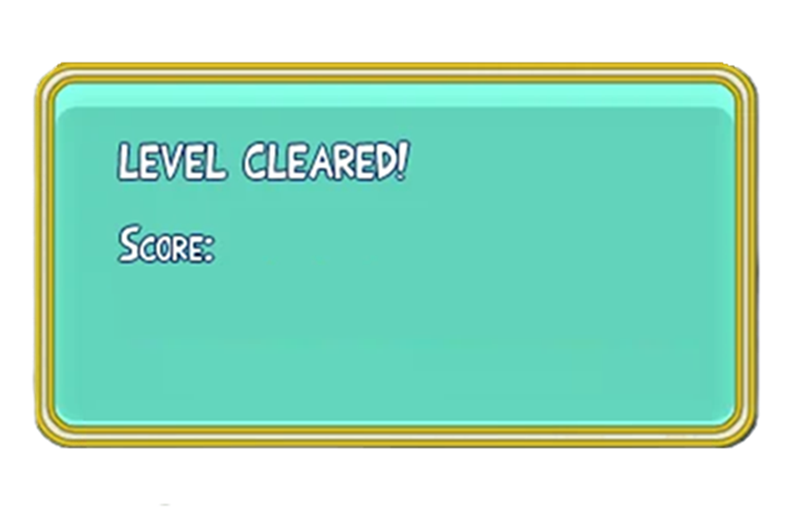
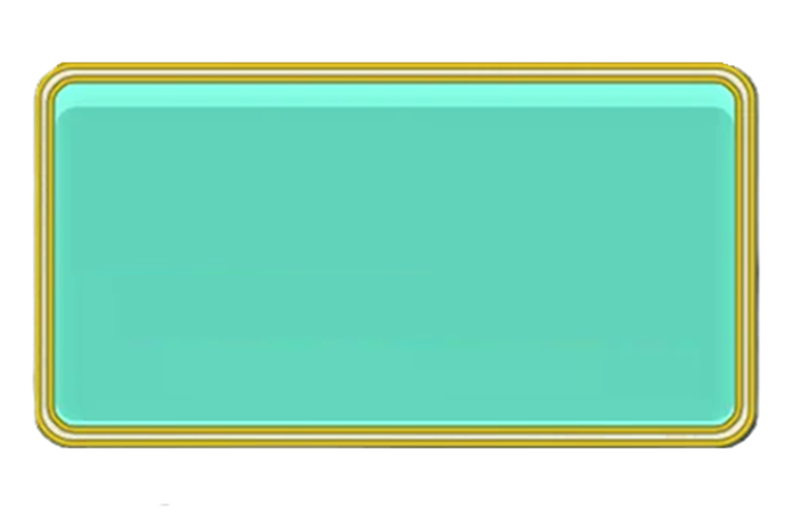
feat yes ScoreBoard

Changed region(s): [[0.125, 0.25, 0.5312, 0.375], [0.125, 0.4375, 0.2812, 0.5312]]

diff --git a/src/AppUtil.cpp b/src/AppUtil.cpp
@@ -31,22 +31,34 @@ void App::PhaseManager() {
         case LEVEL_1: {
             SetUpGame();
 
-            m_ScoreBoard = std::make_shared<ScoreBoard>(RESOURCE_DIR"/GUI/ScoreBoard.png");
-            m_ScoreBoard->SetPosition({0.f, 50.f});
-            m_ScoreBoard->SetZIndex(60);
-            m_Root.AddChild(m_ScoreBoard);
-            m_Menu = std::make_shared<Button>(RESOURCE_DIR"/BUTTON_MENU.png");
-            m_Menu->SetPosition({-200.0f, -125.0f});
-            m_Menu->SetZIndex(70);
-            m_Root.AddChild(m_Menu);
-            m_Restart2 = std::make_shared<Button>(RESOURCE_DIR"/BUTTON_RESTART.png");
-            m_Restart2->SetPosition({0.0f, -125.0f});
-            m_Restart2->SetZIndex(70);
-            m_Root.AddChild(m_Restart2);
-            m_Next = std::make_shared<Button>(RESOURCE_DIR"/BUTTON_NEXT.png");
-            m_Next->SetPosition({200.0f, -125.0f});
-            m_Next->SetZIndex(70);
-            m_Root.AddChild(m_Next);
+            auto scoreBoard = std::make_shared<ScoreBoard>(RESOURCE_DIR"/GUI/ScoreBoard.png");
+            scoreBoard->SetPosition({0.f, 50.f});
+            scoreBoard->SetZIndex(59);
+            m_PauseMenu.push_back(scoreBoard);
+            const auto text_LevelClear = std::make_shared<ScoreBoard>(RESOURCE_DIR"/GUI/LevelCleared.png");
+            text_LevelClear->SetPosition({-130.f, 140.f});
+            text_LevelClear->SetScale(0.5f);
+            text_LevelClear->SetZIndex(60);
+            m_PauseMenu.push_back(text_LevelClear);
+            const auto text_Score = std::make_shared<ScoreBoard>(RESOURCE_DIR"/GUI/Score.png");
+            text_Score->SetPosition({-250.f, 70.f});
+            text_Score->SetScale(0.5f);
+            text_Score->SetZIndex(60);
+            m_PauseMenu.push_back(text_Score);
+            auto btn_Menu = std::make_shared<Button>(RESOURCE_DIR"/BUTTON_MENU.png");
+            btn_Menu->SetPosition({-200.0f, -125.0f});
+            btn_Menu->SetZIndex(70);
+            m_PauseMenu.push_back(btn_Menu);
+            auto btn_Restart = std::make_shared<Button>(RESOURCE_DIR"/BUTTON_RESTART.png");
+            btn_Restart->SetPosition({0.0f, -125.0f});
+            btn_Restart->SetZIndex(70);
+            m_PauseMenu.push_back(btn_Restart);
+            auto btn_Next = std::make_shared<Button>(RESOURCE_DIR"/BUTTON_NEXT.png");
+            btn_Next->SetPosition({200.0f, -125.0f});
+            btn_Next->SetZIndex(70);
+            m_PauseMenu.push_back(btn_Next);
+
+            m_Root.AddChildren(m_PauseMenu);
 
             m_PE = std::make_shared<PhysicsEngine>(&m_Root);
 

diff --git a/include/ScoreBoard.hpp b/include/ScoreBoard.hpp
@@ -4,35 +4,42 @@
 #include "Util/GameObject.hpp"
 #include "ScoreManager.hpp"
 
-class ScoreBoard : public Util::GameObject{
+class ScoreBoard : public Util::GameObject {
 public:
-    explicit ScoreBoard(const std::string& ImagePath);
+    explicit ScoreBoard(const std::string &ImagePath);
 
-    ScoreBoard(const ScoreBoard&) = delete;
+    ScoreBoard(const ScoreBoard &) = delete;
 
-    ScoreBoard(ScoreBoard&&) = delete;
+    ScoreBoard(ScoreBoard &&) = delete;
 
-    ScoreBoard& operator=(const ScoreBoard&) = delete;
+    ScoreBoard &operator=(const ScoreBoard &) = delete;
 
-    ScoreBoard& operator=(ScoreBoard&&) = delete;
+    ScoreBoard &operator=(ScoreBoard &&) = delete;
 
-    void SetImage(const std::string& ImagePath);
+    void SetImage(const std::string &ImagePath);
+
+    void SetScale(float Scale) { m_Transform.scale = {Scale, Scale}; }
+
+    [[nodiscard]] const std::string &GetImagePath() const { return m_ImagePath; }
+
+    [[nodiscard]] glm::vec2 &GetPosition() { return m_Transform.translation; }
+
+    [[nodiscard]] Util::Transform &GetTransform() { return m_Transform; }
 
     void SetPosition(const glm::vec2 &Position) { m_Transform.translation = Position; }
 
     //void SetScore(int score);
 
     void UpdateScore();
-    std::vector<std::shared_ptr<GameObject>> GetScore() const {
+
+    std::vector<std::shared_ptr<GameObject> > GetScore() const {
         return m_Scores;
     }
 
 private:
-
     std::string m_ImagePath;
     int m_Score;
 
-    std::vector<std::shared_ptr<GameObject>> m_Scores;
-
+    std::vector<std::shared_ptr<GameObject> > m_Scores;
 };
 #endif //SCOREBOARD_HPP

diff --git a/include/App.hpp b/include/App.hpp
@@ -61,14 +61,10 @@ private:
     std::shared_ptr<Button> m_Restart;
     std::shared_ptr<Button> m_Pause;
     std::shared_ptr<Button> m_Quit;
-    std::shared_ptr<Button> m_Menu;
-    std::shared_ptr<Button> m_Restart2;
-    std::shared_ptr<Button> m_Next;
+    std::vector<std::shared_ptr<Util::GameObject> > m_PauseMenu;
     std::vector<std::shared_ptr<Button> > m_Buttons;
     std::shared_ptr<Slingshot> m_slingshot;
-    std::vector<std::shared_ptr<Util::GameObject> > m_GameObjects;
     std::chrono::steady_clock::time_point m_LastIsEndCheck;
-    std::shared_ptr<ScoreBoard> m_ScoreBoard;
 
     std::shared_ptr<ResourceManager> m_RM;
     std::shared_ptr<PhysicsEngine> m_PE;

diff --git a/include/Button.hpp b/include/Button.hpp
@@ -27,6 +27,8 @@ public:
 
     void SetImage(const std::string& ImagePath);
 
+    void SetScale(float Scale) { m_Transform.scale = {Scale, Scale}; }
+
     void SetPosition(const glm::vec2& Position) { m_Transform.translation = Position; }
 
 
